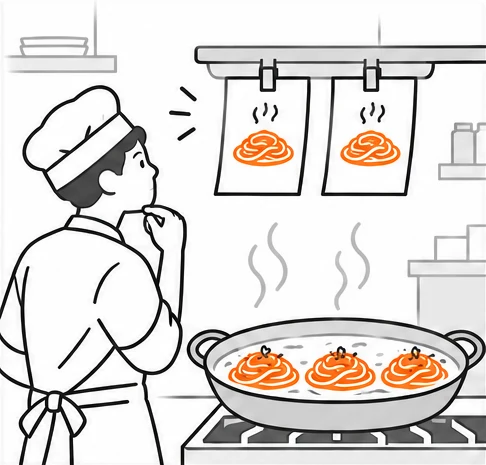
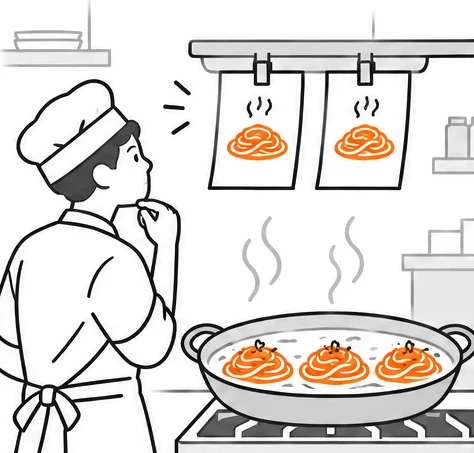
Replace KIOSK insight 1 illustration; trim edges so no panel borders show
Claude-Session: https://claude.ai/code/session_01NDe3p8GQ2HZ5WF8ct1RAfY

diff --git a/english.js b/english.js
@@ -2,7 +2,7 @@
 window.PortfolioEN = (() => {
 
 const schedulingIllustration=(kind,en=false)=>{
- const pilImg={priority:1,exchange:2,mutual:3}[kind];if(pilImg){const alt=[["老師在平板上排課，先安排熟悉的固定學生", "老師深夜逐一傳訊息通知學生，學生隔天準時到教室", "老師把空出的課丟到群組，另一位老師接手"], ["The instructor schedules on a tablet, placing familiar regulars first", "She messages each student late at night; students arrive on time", "An open slot shared to the group is picked up by another instructor"]][en?1:0][pilImg-1];return '<img class="pil-illus" loading="lazy" src="./assets/pilates-insight-'+pilImg+'.webp?v=2" alt="'+alt+'">';}
+ const pilImg={priority:1,exchange:2,mutual:3}[kind];if(pilImg){const alt=[["老師在平板上排課，先安排熟悉的固定學生", "老師深夜逐一傳訊息通知學生，學生隔天準時到教室", "老師把空出的課丟到群組，另一位老師接手"], ["The instructor schedules on a tablet, placing familiar regulars first", "She messages each student late at night; students arrive on time", "An open slot shared to the group is picked up by another instructor"]][en?1:0][pilImg-1];return '<img class="pil-illus" loading="lazy" src="./assets/pilates-insight-'+pilImg+'.webp?v=3" alt="'+alt+'">';}
  const zh={
   priority:['先排','穩定、感情好的學生','再排','能上時間少的學生','最後','其他學生','每人至少 2 堂原老師','有人要上 5–8 堂'],
   exchange:['老師付出','整月排好每位學生','手打通知 30–60 人','學生回報','照著上課','取消變少'],
@@ -73,7 +73,7 @@ const schedulingInsight=(num,label,title,copy,kind,caption,en=false)=>'<article 
   '<div id="rq-1"><b class="rq-num">01</b><strong>What functions and flows do different restaurant formats need?</strong><div class="rq-decision"><b>Method</b>Desk research + an exploratory scan of 40 stores across ~10 categories</div><div class="rq-value"><b>Where the answer is</b><a class="rq-link rq-link--wide" href="#kiosk-market">Market focus <span aria-hidden="true">↓</span></a></div></div>'+
   '<div id="rq-2"><b class="rq-num">02</b><strong>Which important capabilities are missing against competitors?</strong><div class="rq-decision"><b>Method</b>Competitive analysis of 7 competitors: features, interfaces and flows</div><div class="rq-value"><b>Where the answer is</b><a class="rq-link" href="#kdec-1">Decision 01 · Add-on entry <span aria-hidden="true">↓</span></a></div></div>'+
   '<div id="rq-3"><b class="rq-num">03</b><strong>Where do merchants report operating difficulties and unmet needs?</strong><div class="rq-decision"><b>Method</b>Interviews with 7 store managers, plus earlier interview data</div><div class="rq-value"><b>Where the answer is</b><a class="rq-link" href="#kdec-2">Decision 02 · Payment guidance <span aria-hidden="true">↓</span></a><a class="rq-link" href="#kdec-3">Decision 03 · Set switching <span aria-hidden="true">↓</span></a></div></div></div>'+
-  '<div class="kiosk-market-restored"><div class="kiosk-market-final" id="kiosk-market"><div class="kiosk-market-final-head"><span>MARKET FOCUS / TARGET FORMATS</span><h3>From a broad market to priority restaurant formats</h3><p>An exploratory scan of 40 stores across roughly ten formats helped identify restaurant types worth investigating further. The direction still needs validation with merchants.</p></div><div class="kiosk-market-final-main"><div class="market-conclusion"><div class="market-sizing market-sizing--circles"><div class="market-sizing-tam"><span>TAM</span><strong>Restaurants needing self-service ordering</strong><div class="market-sizing-sam"><span>SAM</span><strong>Formats current product could serve</strong><div class="market-sizing-focus"><span>TO VALIDATE</span><strong>Candidate formats</strong></div></div></div></div></div><div class="kiosk-market-screening"><h4>What makes a merchant a better fit?</h4><div class="kiosk-screening-item"><h5><span class="h-num">01</span>High transaction frequency</h5><p>Concentrated peak-hour orders and a need to keep ordering quick.</p></div><div class="kiosk-screening-item"><h5><span class="h-num">02</span>Standardized ordering flow</h5><p>Relatively consistent menus and steps that self-service can support.</p></div><div class="kiosk-screening-item"><h5><span class="h-num">03</span>Under NT$300</h5><p>An initial business screening threshold, not a fact about every target format.</p></div></div></div><div class="market-compare kiosk-market-final-stats"><div><span>40</span><strong>Stores</strong><small>Exploratory scan</small></div><div><span>10</span><strong>Formats</strong><small>Broad menu-based types</small></div><div><span>2</span><strong>Focus areas</strong><small>Japanese specialty / beverages</small></div></div><div class="evidence-details kiosk-market-final-chart is-open"><div class="market-chart"><div class="market-chart-head"><h6>Observed KIOSK adoption by format</h6><p>Higher bars show more observed brands, not greater product priority.</p></div><div class="market-bars"><div class="market-bar-row"><span>Chinese casual eateries</span><div class="market-bar-track"><div class="market-bar market-bar-lead" style="width:100%"></div></div><strong>7</strong></div><div class="market-bar-row"><span>Japanese specialty</span><div class="market-bar-track"><div class="market-bar market-bar-lead" style="width:100%"></div></div><strong>7</strong></div><div class="market-bar-row"><span>Fast food</span><div class="market-bar-track"><div class="market-bar market-bar-lead" style="width:86%"></div></div><strong>6</strong></div><div class="market-bar-row"><span>Beverage shops</span><div class="market-bar-track"><div class="market-bar market-bar-lead" style="width:86%"></div></div><strong>6</strong></div><div class="market-bar-row"><span>Western restaurants</span><div class="market-bar-track"><div class="market-bar " style="width:57%"></div></div><strong>4</strong></div><div class="market-bar-row"><span>Quick-service value meals</span><div class="market-bar-track"><div class="market-bar " style="width:43%"></div></div><strong>3</strong></div><div class="market-bar-row"><span>Noodle shops</span><div class="market-bar-track"><div class="market-bar " style="width:29%"></div></div><strong>2</strong></div><div class="market-bar-row"><span>Unmanned ramen</span><div class="market-bar-track"><div class="market-bar " style="width:29%"></div></div><strong>2</strong></div><div class="market-bar-row"><span>Cafés</span><div class="market-bar-track"><div class="market-bar " style="width:29%"></div></div><strong>2</strong></div><div class="market-bar-row"><span>Other</span><div class="market-bar-track"><div class="market-bar " style="width:29%"></div></div><strong>2</strong></div></div><p class="market-chart-note">The bar values count observed KIOSK-adopting brands by format, a different unit from the 40-store exploration; do not add them or generalize nationwide.</p></div></div></div></div><h3>Merchant interviews</h3><div class="research-audience"><div class="research-audience-summary"><div class="research-audience-count"><strong>07</strong><span>Managers across four brands</span></div><div class="interview-brand-logos" aria-label="Interviewed restaurant logos"><img src="./kiosk-logo-mini-mono.svg" alt="mini STEAK HOUSE"><img src="./kiosk-logo-ippudo-mono.svg" alt="Ippudo"><img src="./kiosk-logo-lugu-mono.svg" alt="Fighting Chicken"><img src="./kiosk-logo-kokkio-mono.svg" alt="KOKKIO"></div></div><p>Representing Noble Family Steakhouse, KOKKIO, Ippudo, and Fighting Chicken. I synthesized their reports of customer behavior, plus support tickets and historical data, into user needs.</p></div><h3>Key insights</h3><article class="insight-feature"><div class="insight-feature-copy"><span class="insight-feature-kicker"><em class="insight-number">01</em></span><h4>Customers look only at the screen and miss the payment hardware beside it</h4><p>Customers get stuck at payment more than at ordering: their attention stays on the screen in front of them, so cash, card and contactless modules elsewhere on the machine go unnoticed. A manager said: <strong>“I always have to tell them to put the money into the glowing blue spot.”</strong></p></div><figure><img class="kiosk-illus" loading="lazy" src="./assets/kiosk-insight-1.webp?v=1" alt="Line of sight from screen to payment hardware"></figure></article><article class="insight-feature"><div class="insight-feature-copy"><span class="insight-feature-kicker"><em class="insight-number">02</em></span><h4>Customers know set meals differently depending on the type of restaurant</h4><p>Fast-food customers already know what a set contains and accept the default extras; at other restaurants customers want to see the contents before they decide. A steakhouse asked: <strong>“Could required meal options be selected by default?”</strong></p></div><figure><img class="kiosk-illus" loading="lazy" src="./assets/kiosk-insight-2.webp?v=1" alt="Different menu structures by format"></figure></article><article class="insight-feature insight-feature--decision"><div class="insight-feature-copy"><span class="insight-feature-kicker"><em class="insight-number">03</em></span><h4>Customers decide as they go, not up front</h4><p>Customers often order a single item and only decide at the end whether to upgrade to a set; the choice forms during ordering rather than before it. A manager said: <strong>“Customers often decide to upgrade at the end, so I ask them first.”</strong></p></div><figure><img class="kiosk-illus" loading="lazy" src="./assets/kiosk-insight-3.webp?v=1" alt="Switching from item to set"></figure></article><div class="kiosk-comp" id="kiosk-comp"><h3>Competitive analysis</h3><p>Seven kiosk competitors compared on features, interface and flow. Percentages show how many offer each feature; items marked “also in interviews” came up in merchant interviews too.</p><table><thead><tr><th>Feature</th><th>Share of competitors</th><th>Notes</th></tr></thead><tbody><tr><th scope="row">Add-on flow <em class="kc-int">also in interviews</em></th><td class="kc-pct">71%</td><td>iChef reports about 50% of customers add items once enabled</td></tr><tr><th scope="row">Membership</th><td class="kc-pct">71%</td><td>Eats365 says it brings customers back</td></tr><tr><th scope="row">Recommended tags</th><td class="kc-pct">57%</td><td>incl. Hsing Yi Hsin (~20% of Taiwan POS)</td></tr><tr><th scope="row">Popular-item ranking</th><td class="kc-pct">—</td><td>Dianxiaoer and Uber Eats</td></tr><tr><th scope="row">Back to ordering from payment <em class="kc-int">also in interviews</em></th><td class="kc-pct">100%</td><td></td></tr><tr><th scope="row">Separate invoice/carrier page <em class="kc-int">also in interviews</em></th><td class="kc-pct">85%</td><td></td></tr><tr><th scope="row">Category sidebar <em class="kc-int">also in interviews</em></th><td class="kc-pct">53%</td><td>of 26 brands have more than 5 categories</td></tr><tr><th scope="row">Multiple languages <em class="kc-int">also in interviews</em></th><td class="kc-pct">85%</td><td>all include English; 66% offer Chinese, English and Japanese</td></tr><tr><th scope="row">Animated primary buttons <em class="kc-int">also in interviews</em></th><td class="kc-pct">—</td><td>Dianxiaoer, Hsing Yi Hsin</td></tr><tr><th scope="row">Payment location vs. machine <em class="kc-int">also in interviews</em></th><td class="kc-pct">—</td><td>Dianxiaoer, McDonald’s</td></tr></tbody></table></div>')+
+  '<div class="kiosk-market-restored"><div class="kiosk-market-final" id="kiosk-market"><div class="kiosk-market-final-head"><span>MARKET FOCUS / TARGET FORMATS</span><h3>From a broad market to priority restaurant formats</h3><p>An exploratory scan of 40 stores across roughly ten formats helped identify restaurant types worth investigating further. The direction still needs validation with merchants.</p></div><div class="kiosk-market-final-main"><div class="market-conclusion"><div class="market-sizing market-sizing--circles"><div class="market-sizing-tam"><span>TAM</span><strong>Restaurants needing self-service ordering</strong><div class="market-sizing-sam"><span>SAM</span><strong>Formats current product could serve</strong><div class="market-sizing-focus"><span>TO VALIDATE</span><strong>Candidate formats</strong></div></div></div></div></div><div class="kiosk-market-screening"><h4>What makes a merchant a better fit?</h4><div class="kiosk-screening-item"><h5><span class="h-num">01</span>High transaction frequency</h5><p>Concentrated peak-hour orders and a need to keep ordering quick.</p></div><div class="kiosk-screening-item"><h5><span class="h-num">02</span>Standardized ordering flow</h5><p>Relatively consistent menus and steps that self-service can support.</p></div><div class="kiosk-screening-item"><h5><span class="h-num">03</span>Under NT$300</h5><p>An initial business screening threshold, not a fact about every target format.</p></div></div></div><div class="market-compare kiosk-market-final-stats"><div><span>40</span><strong>Stores</strong><small>Exploratory scan</small></div><div><span>10</span><strong>Formats</strong><small>Broad menu-based types</small></div><div><span>2</span><strong>Focus areas</strong><small>Japanese specialty / beverages</small></div></div><div class="evidence-details kiosk-market-final-chart is-open"><div class="market-chart"><div class="market-chart-head"><h6>Observed KIOSK adoption by format</h6><p>Higher bars show more observed brands, not greater product priority.</p></div><div class="market-bars"><div class="market-bar-row"><span>Chinese casual eateries</span><div class="market-bar-track"><div class="market-bar market-bar-lead" style="width:100%"></div></div><strong>7</strong></div><div class="market-bar-row"><span>Japanese specialty</span><div class="market-bar-track"><div class="market-bar market-bar-lead" style="width:100%"></div></div><strong>7</strong></div><div class="market-bar-row"><span>Fast food</span><div class="market-bar-track"><div class="market-bar market-bar-lead" style="width:86%"></div></div><strong>6</strong></div><div class="market-bar-row"><span>Beverage shops</span><div class="market-bar-track"><div class="market-bar market-bar-lead" style="width:86%"></div></div><strong>6</strong></div><div class="market-bar-row"><span>Western restaurants</span><div class="market-bar-track"><div class="market-bar " style="width:57%"></div></div><strong>4</strong></div><div class="market-bar-row"><span>Quick-service value meals</span><div class="market-bar-track"><div class="market-bar " style="width:43%"></div></div><strong>3</strong></div><div class="market-bar-row"><span>Noodle shops</span><div class="market-bar-track"><div class="market-bar " style="width:29%"></div></div><strong>2</strong></div><div class="market-bar-row"><span>Unmanned ramen</span><div class="market-bar-track"><div class="market-bar " style="width:29%"></div></div><strong>2</strong></div><div class="market-bar-row"><span>Cafés</span><div class="market-bar-track"><div class="market-bar " style="width:29%"></div></div><strong>2</strong></div><div class="market-bar-row"><span>Other</span><div class="market-bar-track"><div class="market-bar " style="width:29%"></div></div><strong>2</strong></div></div><p class="market-chart-note">The bar values count observed KIOSK-adopting brands by format, a different unit from the 40-store exploration; do not add them or generalize nationwide.</p></div></div></div></div><h3>Merchant interviews</h3><div class="research-audience"><div class="research-audience-summary"><div class="research-audience-count"><strong>07</strong><span>Managers across four brands</span></div><div class="interview-brand-logos" aria-label="Interviewed restaurant logos"><img src="./kiosk-logo-mini-mono.svg" alt="mini STEAK HOUSE"><img src="./kiosk-logo-ippudo-mono.svg" alt="Ippudo"><img src="./kiosk-logo-lugu-mono.svg" alt="Fighting Chicken"><img src="./kiosk-logo-kokkio-mono.svg" alt="KOKKIO"></div></div><p>Representing Noble Family Steakhouse, KOKKIO, Ippudo, and Fighting Chicken. I synthesized their reports of customer behavior, plus support tickets and historical data, into user needs.</p></div><h3>Key insights</h3><article class="insight-feature"><div class="insight-feature-copy"><span class="insight-feature-kicker"><em class="insight-number">01</em></span><h4>Customers look only at the screen and miss the payment hardware beside it</h4><p>Customers get stuck at payment more than at ordering: their attention stays on the screen in front of them, so cash, card and contactless modules elsewhere on the machine go unnoticed. A manager said: <strong>“I always have to tell them to put the money into the glowing blue spot.”</strong></p></div><figure><img class="kiosk-illus" loading="lazy" src="./assets/kiosk-insight-1.webp?v=2" alt="Line of sight from screen to payment hardware"></figure></article><article class="insight-feature"><div class="insight-feature-copy"><span class="insight-feature-kicker"><em class="insight-number">02</em></span><h4>Customers know set meals differently depending on the type of restaurant</h4><p>Fast-food customers already know what a set contains and accept the default extras; at other restaurants customers want to see the contents before they decide. A steakhouse asked: <strong>“Could required meal options be selected by default?”</strong></p></div><figure><img class="kiosk-illus" loading="lazy" src="./assets/kiosk-insight-2.webp?v=2" alt="Different menu structures by format"></figure></article><article class="insight-feature insight-feature--decision"><div class="insight-feature-copy"><span class="insight-feature-kicker"><em class="insight-number">03</em></span><h4>Customers decide as they go, not up front</h4><p>Customers often order a single item and only decide at the end whether to upgrade to a set; the choice forms during ordering rather than before it. A manager said: <strong>“Customers often decide to upgrade at the end, so I ask them first.”</strong></p></div><figure><img class="kiosk-illus" loading="lazy" src="./assets/kiosk-insight-3.webp?v=2" alt="Switching from item to set"></figure></article><div class="kiosk-comp" id="kiosk-comp"><h3>Competitive analysis</h3><p>Seven kiosk competitors compared on features, interface and flow. Percentages show how many offer each feature; items marked “also in interviews” came up in merchant interviews too.</p><table><thead><tr><th>Feature</th><th>Share of competitors</th><th>Notes</th></tr></thead><tbody><tr><th scope="row">Add-on flow <em class="kc-int">also in interviews</em></th><td class="kc-pct">71%</td><td>iChef reports about 50% of customers add items once enabled</td></tr><tr><th scope="row">Membership</th><td class="kc-pct">71%</td><td>Eats365 says it brings customers back</td></tr><tr><th scope="row">Recommended tags</th><td class="kc-pct">57%</td><td>incl. Hsing Yi Hsin (~20% of Taiwan POS)</td></tr><tr><th scope="row">Popular-item ranking</th><td class="kc-pct">—</td><td>Dianxiaoer and Uber Eats</td></tr><tr><th scope="row">Back to ordering from payment <em class="kc-int">also in interviews</em></th><td class="kc-pct">100%</td><td></td></tr><tr><th scope="row">Separate invoice/carrier page <em class="kc-int">also in interviews</em></th><td class="kc-pct">85%</td><td></td></tr><tr><th scope="row">Category sidebar <em class="kc-int">also in interviews</em></th><td class="kc-pct">53%</td><td>of 26 brands have more than 5 categories</td></tr><tr><th scope="row">Multiple languages <em class="kc-int">also in interviews</em></th><td class="kc-pct">85%</td><td>all include English; 66% offer Chinese, English and Japanese</td></tr><tr><th scope="row">Animated primary buttons <em class="kc-int">also in interviews</em></th><td class="kc-pct">—</td><td>Dianxiaoer, Hsing Yi Hsin</td></tr><tr><th scope="row">Payment location vs. machine <em class="kc-int">also in interviews</em></th><td class="kc-pct">—</td><td>Dianxiaoer, McDonald’s</td></tr></tbody></table></div>')+
  section('solutions','03','KEY PRODUCT DECISIONS','Three product decisions shaped by research',
  
  "<div class=\"research-question-grid kiosk-decision-rows\"><div id=\"kdec-1\"><b class=\"rq-num\">01</b><strong>Make add-ons discoverable at the right moment</strong><div class=\"rq-decision\"><b>Finding</b>71% of competitors offer an add-on entry, which points to an opportunity to offer complementary items, but direct consumer demand was not established.<a class=\"rq-back\" href=\"#rq-2\">Answers question 02 ↑</a></div><div class=\"rq-value\"><b>Decision</b>Provide a clear add-on entry during selection; any effect on average order value still needs post-launch validation.<a class=\"dec-look\" href=\"#hl-addon\">See it in action <span aria-hidden=\"true\">↓</span></a></div></div><div id=\"kdec-2\"><b class=\"rq-num\">02</b><strong>Connect on-screen guidance to physical payment hardware</strong><div class=\"rq-decision\"><b>Finding</b>Merchant managers described customers focusing on the screen and struggling to locate cash, card, or contactless payment modules.<a class=\"rq-back\" href=\"#rq-3\">Answers question 03 ↑</a></div><div class=\"rq-value\"><b>Decision</b>Map payment instructions to the actual module locations to potentially reduce staff assistance. It sits in the main flow, interrupts the transaction, and pulls staff in, so it became the top priority.<a class=\"dec-look\" href=\"#hl-pay\">See it in action <span aria-hidden=\"true\">↓</span></a></div></div><div id=\"kdec-3\"><b class=\"rq-num\">03</b><strong>Switch between items and sets without starting over</strong><div class=\"rq-decision\"><b>Finding</b>Earlier interviews found that upgrading a single item to a set often required deleting it and repeating choices.<a class=\"rq-back\" href=\"#rq-3\">Answers question 03 ↑</a></div><div class=\"rq-value\"><b>Decision</b>Let customers switch within the existing selection, reducing repetitive work and the risk of abandoning an order.<a class=\"dec-look\" href=\"#hl-combo\">See it in action <span aria-hidden=\"true\">↓</span></a></div></div></div>")+
@@ -101,11 +101,11 @@ const schedulingInsight=(num,label,title,copy,kind,caption,en=false)=>'<article 
   ''+
   ''+
   '<h3>Key insights</h3><div class="kds-user-insights">'+
-  '<article class="insight-feature kds-insight-feature"><div class="insight-feature-copy"><span class="insight-feature-kicker"><em class="insight-number">01</em><span>BATCH PREPARATION</span></span><h4>Kitchen staff batch dishes with the same preparation process instead of finishing one order at a time</h4><p>Cooks check quantities of similar items across orders before collecting ingredients and preparing them together. The kitchen’s unit of work may be a batch of dishes, not an entire ticket.</p></div><figure class="kds-insight-figure kds-illus"><img loading="lazy" src="./assets/kds-insight-1.webp?v=2" alt="The same dish from two orders cooked in one pan"></figure></article>'+
+  '<article class="insight-feature kds-insight-feature"><div class="insight-feature-copy"><span class="insight-feature-kicker"><em class="insight-number">01</em><span>BATCH PREPARATION</span></span><h4>Kitchen staff batch dishes with the same preparation process instead of finishing one order at a time</h4><p>Cooks check quantities of similar items across orders before collecting ingredients and preparing them together. The kitchen’s unit of work may be a batch of dishes, not an entire ticket.</p></div><figure class="kds-insight-figure kds-illus"><img loading="lazy" src="./assets/kds-insight-1.webp?v=3" alt="The same dish from two orders cooked in one pan"></figure></article>'+
   ''+
-  '<article class="insight-feature kds-insight-feature"><div class="insight-feature-copy"><span class="insight-feature-kicker"><em class="insight-number">02</em><span>INTERRUPTED ATTENTION</span></span><h4>Cooks glance up between tasks; they do not watch the screen</h4><p>Cooks’ attention is on prep and cooking, and they look up only in gaps. Cancellations and edits often happen while nobody is looking, so by the next glance the dish may already be under way.</p></div><figure class="kds-insight-figure kds-illus"><img loading="lazy" src="./assets/kds-insight-2.webp?v=2" alt="A cook focused on prep only glances up at a change on screen"></figure></article>'+
+  '<article class="insight-feature kds-insight-feature"><div class="insight-feature-copy"><span class="insight-feature-kicker"><em class="insight-number">02</em><span>INTERRUPTED ATTENTION</span></span><h4>Cooks glance up between tasks; they do not watch the screen</h4><p>Cooks’ attention is on prep and cooking, and they look up only in gaps. Cancellations and edits often happen while nobody is looking, so by the next glance the dish may already be under way.</p></div><figure class="kds-insight-figure kds-illus"><img loading="lazy" src="./assets/kds-insight-2.webp?v=3" alt="A cook focused on prep only glances up at a change on screen"></figure></article>'+
   ''+
-  '<article class="insight-feature kds-insight-feature"><div class="insight-feature-copy"><span class="insight-feature-kicker"><em class="insight-number">03</em><span>EFFICIENCY & FAIRNESS</span></span><h4>Bigger batches are more efficient but keep earlier diners waiting longer</h4><p>Cooking similar dishes together saves time, but those dishes come from orders placed at different times. Cooks trade off filling a batch against how long the first customer has already waited.</p></div><figure class="kds-insight-figure kds-illus"><img loading="lazy" src="./assets/kds-insight-3.webp?v=2" alt="Trade-off between cooking a batch and the first diner waiting"></figure></article><article class="insight-feature kds-insight-feature"><div class="insight-feature-copy"><span class="insight-feature-kicker"><em class="insight-number">04</em><span>FIRE CUE</span></span><h4>When to cook depends on the table, not only on when the order came in</h4><p>If a table is still full or the last course is unfinished, serving early causes trouble, so the kitchen waits for front of house to say it can start. At LA PASTA, for example, front of house tells the kitchen when to fire based on each table.</p></div><figure class="kds-insight-figure kds-illus"><img loading="lazy" src="./assets/kds-insight-4.webp?v=2" alt="The kitchen fires only once the table has space"></figure></article><article class="insight-feature kds-insight-feature"><div class="insight-feature-copy"><span class="insight-feature-kicker"><em class="insight-number">05</em><span>PHYSICAL LIMITS</span></span><h4>Pan capacity and table space set the pace of service</h4><p>How many portions a pan holds and how many plates a table fits both shape the rhythm of service. At LA PASTA, for example, a pan cooks at most two portions of pasta, and a large soup bowl and pasta platter arriving together fill the table.</p></div><figure class="kds-insight-figure kds-illus"><img loading="lazy" src="./assets/kds-insight-5.webp?v=2" alt="A pan holds two portions; large dishes overflow the table"></figure></article></div>'+
+  '<article class="insight-feature kds-insight-feature"><div class="insight-feature-copy"><span class="insight-feature-kicker"><em class="insight-number">03</em><span>EFFICIENCY & FAIRNESS</span></span><h4>Bigger batches are more efficient but keep earlier diners waiting longer</h4><p>Cooking similar dishes together saves time, but those dishes come from orders placed at different times. Cooks trade off filling a batch against how long the first customer has already waited.</p></div><figure class="kds-insight-figure kds-illus"><img loading="lazy" src="./assets/kds-insight-3.webp?v=3" alt="Trade-off between cooking a batch and the first diner waiting"></figure></article><article class="insight-feature kds-insight-feature"><div class="insight-feature-copy"><span class="insight-feature-kicker"><em class="insight-number">04</em><span>FIRE CUE</span></span><h4>When to cook depends on the table, not only on when the order came in</h4><p>If a table is still full or the last course is unfinished, serving early causes trouble, so the kitchen waits for front of house to say it can start. At LA PASTA, for example, front of house tells the kitchen when to fire based on each table.</p></div><figure class="kds-insight-figure kds-illus"><img loading="lazy" src="./assets/kds-insight-4.webp?v=3" alt="The kitchen fires only once the table has space"></figure></article><article class="insight-feature kds-insight-feature"><div class="insight-feature-copy"><span class="insight-feature-kicker"><em class="insight-number">05</em><span>PHYSICAL LIMITS</span></span><h4>Pan capacity and table space set the pace of service</h4><p>How many portions a pan holds and how many plates a table fits both shape the rhythm of service. At LA PASTA, for example, a pan cooks at most two portions of pasta, and a large soup bowl and pasta platter arriving together fill the table.</p></div><figure class="kds-insight-figure kds-illus"><img loading="lazy" src="./assets/kds-insight-5.webp?v=3" alt="A pan holds two portions; large dishes overflow the table"></figure></article></div>'+
   '')+
  section('opportunity','04','PRODUCT DECISIONS','Translating research into actionable next-version directions',
   ''+

diff --git a/index.html b/index.html
@@ -35,10 +35,10 @@
     <div><strong>Yuan Chi Chang</strong><span>UX × Product Thinking × Building</span></div>
     <div class="footer-right"><span>Made with curiosity, 2026.</span><a href="#/">Back to top ↑</a></div>
   </footer>
-  <script src="./english.js?v=20261104k5"></script>
+  <script src="./english.js?v=20261104edge"></script>
   <script src="./hero-image-data.js?v=20261029-hq"></script>
   <script src="./hero-back-data.js?v=20261029toast2"></script>
   <script>window.HERO_BACK_IMAGE = './yuan-chi-hero-flip-back.png?v=20261029-coral-fix';</script>
-  <script src="./script.js?v=20261104k5"></script>
+  <script src="./script.js?v=20261104edge"></script>
 </body>
 </html>
